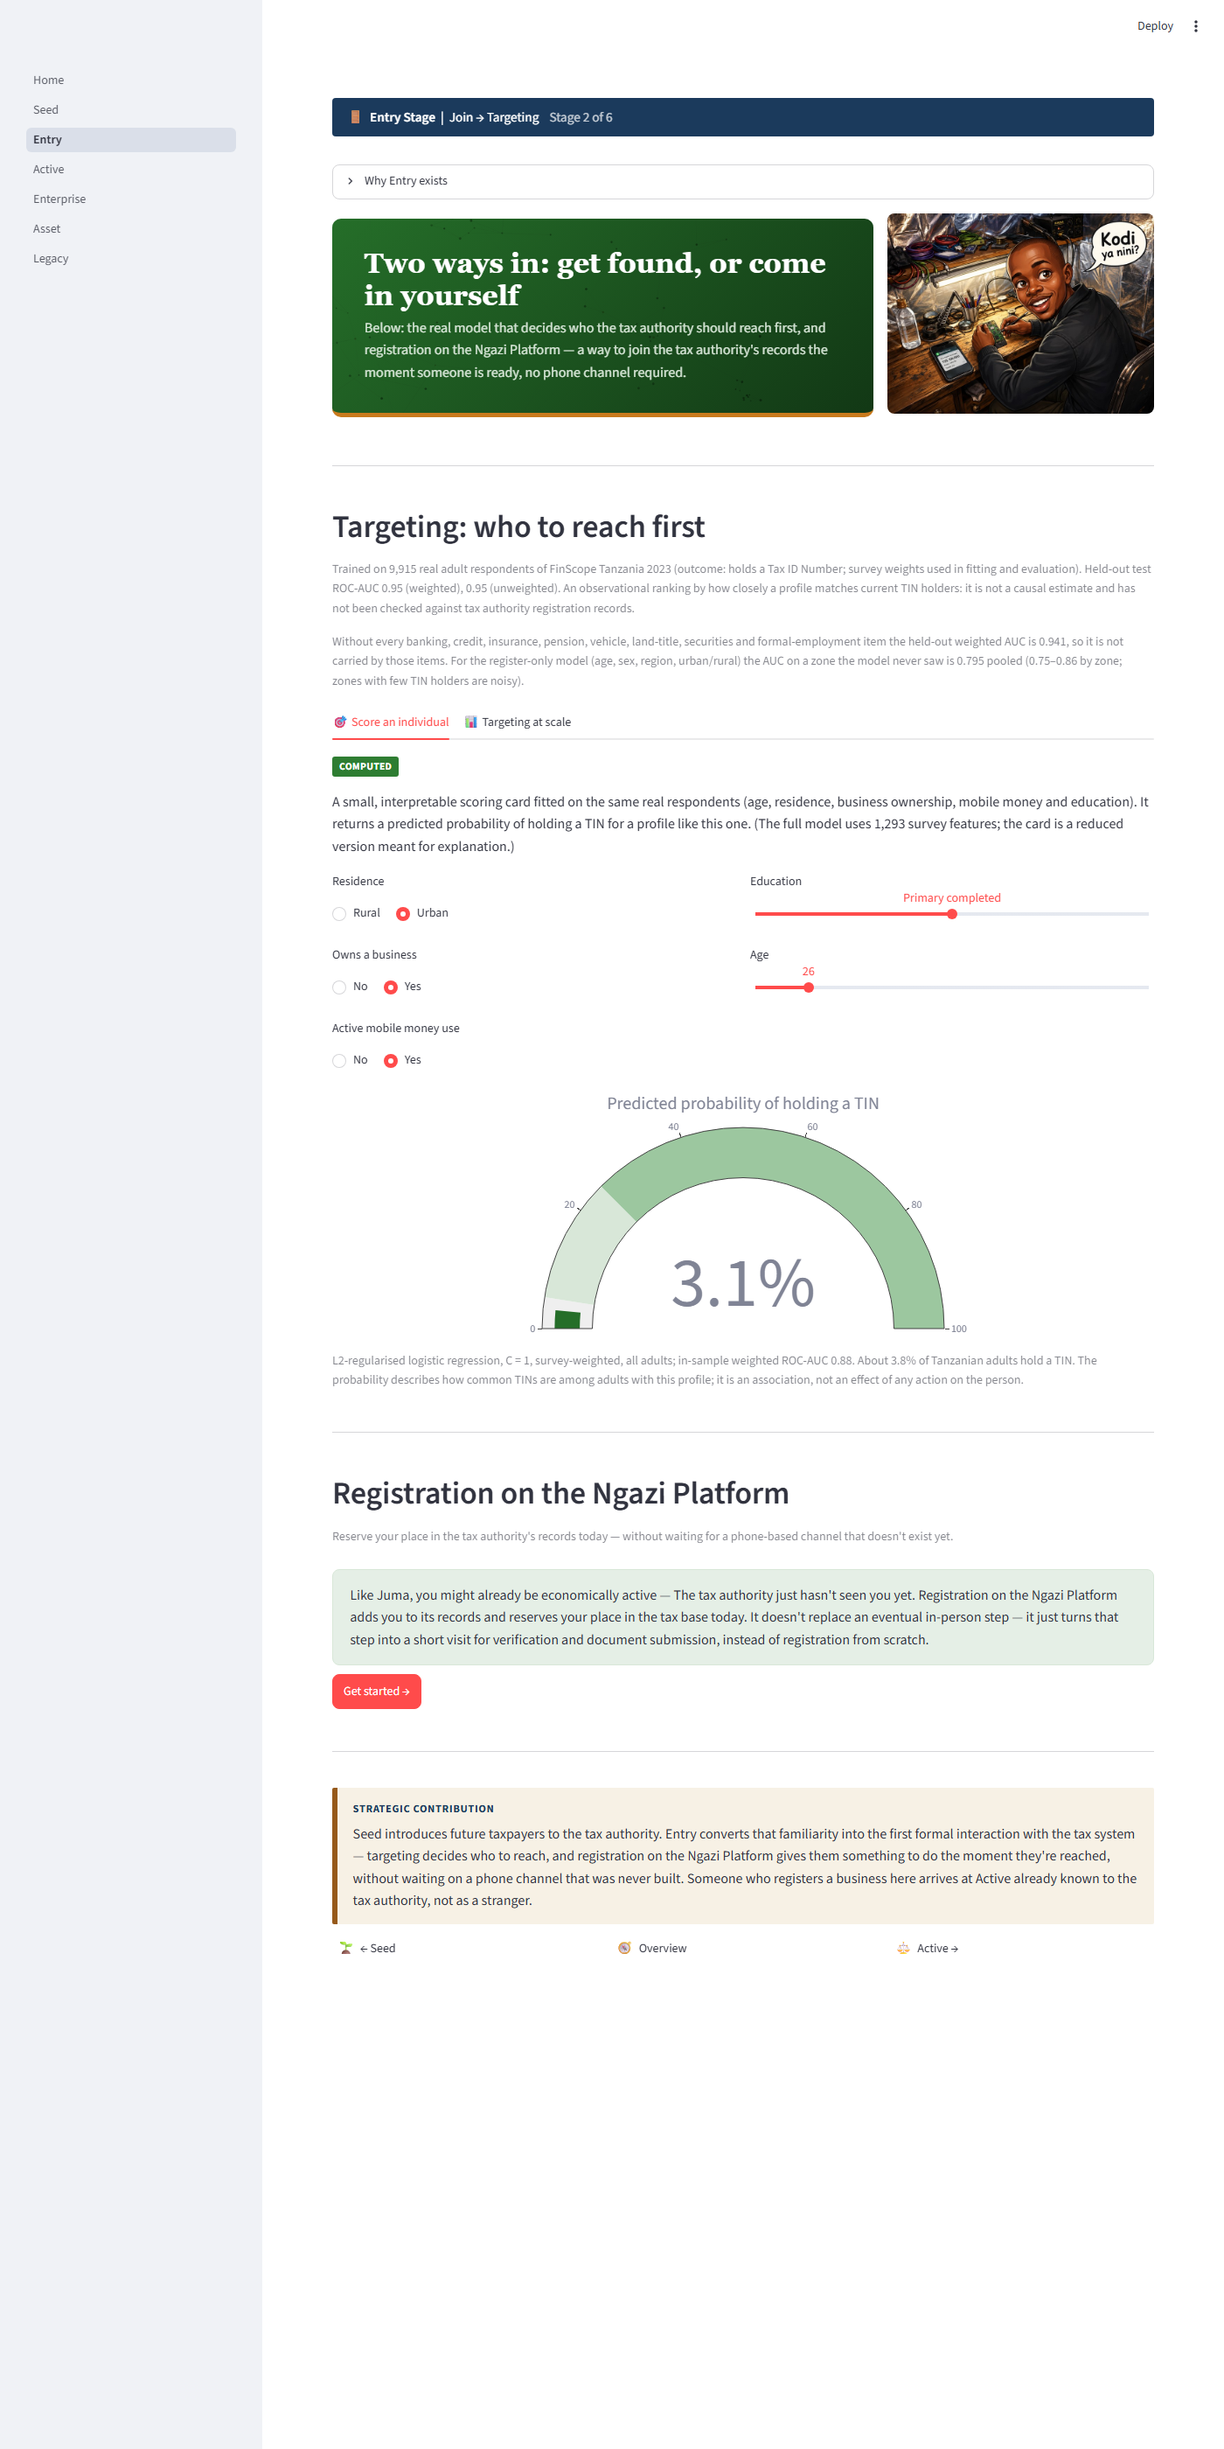
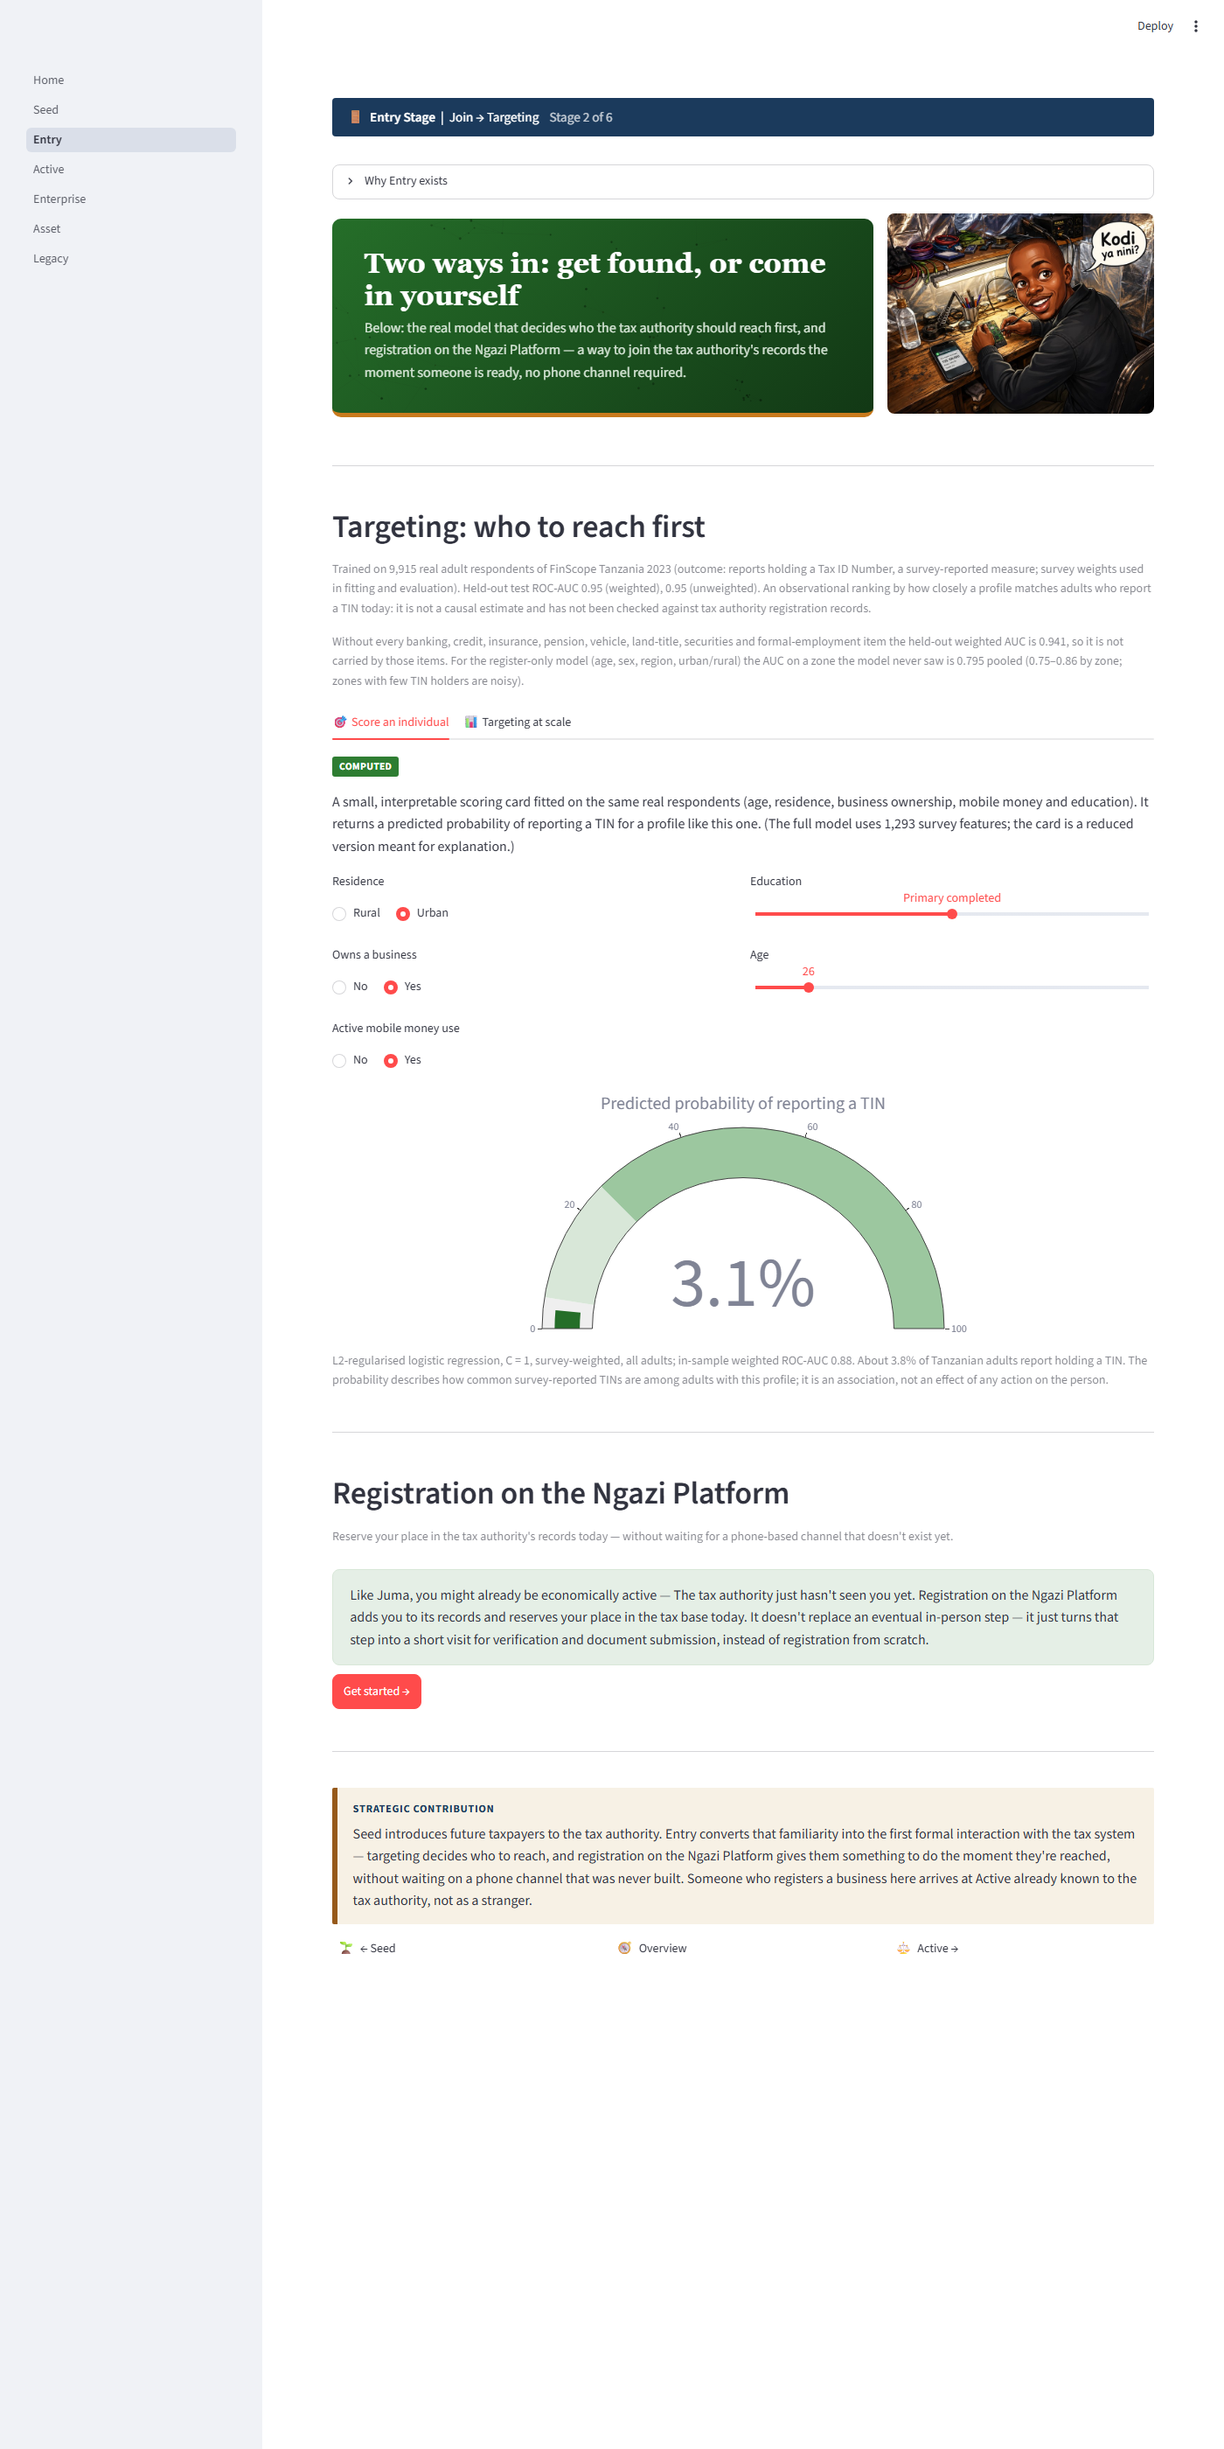
Pass 6B-2 phase 3: dashboard wording, screenshots, poster screenshot
Survey-reported TIN terminology throughout the Home and Entry pages; the stage definitions of drafts 4-0a (Active = business owners 25-64 whose business is not registered,
Enterprise = registered, Asset = non-business owners 45-64, non-business owners 25-44 without a stage) on Home; Figure 5.1's 12.0% explained like for like (baseline plus the six separate
gains) and "if every adult were reached"; Mzani wa Kodi labelled "a reference for assessment and review, shown in shadow mode for officers; not a determination of liability";
no digital twin anywhere. docs/pending_dashboard_text.csv carries a status for each row. Dashboard launched locally: all seven pages load without a Streamlit exception;
screenshots and the poster's dashboard picture regenerated; the poster's QR code decodes to https://taxpayer-development-journey.streamlit.app.

Changed region(s): [[0.5836, 0.2175, 0.86, 0.2486], [0.8907, 0.2175, 0.9214, 0.2486], [0.5836, 0.435, 0.6143, 0.4661]]

diff --git a/dashboard/Home.py b/dashboard/Home.py
@@ -47,6 +47,11 @@ for col, stage in zip(cols, STAGES):
         st.page_link(stage["page"], label=f"{stage['icon']}  {stage['label']}", icon=None)
         st.caption(f"*{stage['verb']} → {stage['mechanism']}*")
         st.caption(stage["tool"])
+st.caption(
+    "Who each stage serves (FinScope Tanzania 2023, adults): Entry, ages 16–24; Active, business owners aged 25–64 whose business is not registered with any authority; "
+    "Enterprise, business owners aged 25–64 whose business is registered; Asset, non-business owners aged 45–64; Legacy, aged 65 and over. Non-business owners aged 25–44 "
+    "(wage earners, casual workers, farmers and dependants) have no stage of their own. \"Business owner\" follows FinScope's definition: main income from trading or providing a service."
+)
 
 st.divider()
 
@@ -71,7 +76,7 @@ fig = go.Figure(
                  text=[f"{v}%" for v in values], textposition="outside")]
 )
 fig.update_layout(
-    yaxis_title="Modelled probability that an adult holds a TIN (%)",
+    yaxis_title="Modelled probability that an adult reports a TIN (%), if every adult were reached",
     yaxis_range=[0, max(values) * 1.3 + 1],
     height=380,
     margin=dict(t=20, b=20),
@@ -82,10 +87,11 @@ evidence_tag("modelled")
 if _morale.available:
     _m = _morale.value
     st.caption(
-        "Modelled probability that an adult holds a TIN under the project's tax morale model, recalibrated so that today's value equals the observed adult TIN rate "
+        "Modelled probability that an adult reports a TIN under the project's tax morale model if every adult were reached, recalibrated so that today's value equals the observed (survey-reported) adult TIN rate "
         f"({_m['baseline_compliance_probability'] * 100:.2f}%, FinScope 2023). The intervention effects are assumed uplifts expressed as odds ratios (not measured). "
-        f"The combined effect ({_m['combined_intervention_probability'] * 100:.1f}%) sits below the naive sum of the solo effects ({_m['naive_sum_of_solo_effects_pct']:.1f}%), "
-        "which is not a meaningful probability at a low baseline."
+        f"The combined effect ({_m['combined_intervention_probability'] * 100:.2f}%) sits below what adding the six separate gains to today's rate would give "
+        f"({_m['baseline_compliance_probability'] * 100:.2f}% + {_m['naive_sum_of_solo_effects_pct'] - _m['baseline_compliance_probability'] * 100:.2f} percentage points = {_m['naive_sum_of_solo_effects_pct']:.2f}%): "
+        "the model assumes diminishing returns, so the gain comes from coverage, not from synergy."
     )
 else:
     st.caption("The tax morale model is not connected right now.")
@@ -93,7 +99,7 @@ else:
 st.divider()
 
 # ---- Mobile money and TIN holding (observational, real respondents) ----------
-st.markdown("### Mobile Money and TIN Holding in Tanzania's Own Data")
+st.markdown("### Mobile Money and Survey-Reported TIN Holding in Tanzania's Own Data")
 if _mm.available:
     _v = _mm.value
     _rates = {r["group"]: r for r in _v["descriptives"]["tin_rate_by_group"]}
@@ -103,22 +109,22 @@ if _mm.available:
     with c1:
         evidence_tag("computed")
         _u, _n = _rates["Mobile-money users"], _rates["Non-users of mobile money"]
-        st.metric("TIN holding: users vs non-users",
+        st.metric("Survey-reported TIN holding: users vs non-users",
                   f"{_u['tin_rate_pct']:.1f}% vs {_n['tin_rate_pct']:.2f}%",
-                  help="Share of adults holding a TIN among mobile-money users and non-users (survey-weighted). "
-                       "The non-user figure rests on fewer than 10 respondents holding a TIN: low precision.")
+                  help="Share of adults reporting a TIN among mobile-money users and non-users (survey-weighted). "
+                       "The non-user figure rests on fewer than 10 respondents reporting a TIN: low precision.")
     with c2:
         evidence_tag("computed")
         _lo, _hi = _ame["ci95_percentage_points"]
         st.metric("Association, adjusted (average marginal effect)", f"+{_ame['percentage_points']:.1f} pp",
                   delta=f"95% CI {_lo:.1f} to {_hi:.1f}", delta_color="off",
-                  help="Difference in the predicted probability of holding a TIN between mobile-money use and non-use, averaged "
+                  help="Difference in the predicted probability of reporting a TIN between mobile-money use and non-use, averaged "
                        "over respondents, from a survey-weighted Firth-penalised logistic regression (age, sex, residence, "
                        "education, income source, region). Observational, cross-sectional; not a causal estimate.")
     with c3:
         evidence_tag("computed")
-        st.metric("TIN holders who use mobile money", f"{_share['share_of_tin_holders_using_mm_pct']:.1f}%",
-                  help="Weighted share of adult TIN holders who use mobile money.")
+        st.metric("Adults reporting a TIN who use mobile money", f"{_share['share_of_tin_holders_using_mm_pct']:.1f}%",
+                  help="Weighted share of adults reporting a TIN who use mobile money.")
     st.caption(
         f"Observational, cross-sectional association from FinScope Tanzania 2023{_n_finscope}; not a causal "
         "estimate. Mobile-money users differ from non-users in ways the survey does not fully measure."
@@ -140,7 +146,7 @@ if _tb.available:
         evidence_tag("computed")
         k1.metric("Register data alone (age, sex, region, urban/rural)", f"{_reg['multiplier']['median']:.1f}×",
                   delta=f"95% interval {_reg['multiplier']['ci95'][0]:.1f}–{_reg['multiplier']['ci95'][1]:.1f}", delta_color="off",
-                  help="Top-decile Entry-age adults versus the Entry average, modelled TIN holding, respondent bootstrap refitting the model in every replicate. A ratio of model predictions, not a causal effect.")
+                  help="Top-decile Entry-age adults versus the Entry average, modelled survey-reported TIN holding, respondent bootstrap refitting the model in every replicate. A ratio of model predictions, not a causal effect.")
     with k2:
         evidence_tag("computed")
         k2.metric("Survey model (all questionnaire items)", f"{_sur['multiplier']['median']:.1f}×",
@@ -154,11 +160,11 @@ if _tb.available:
         evidence_tag("computed")
         k4.metric("Register-only AUC on a zone it never saw", f"{_lozo['pooled_loZo_auc_weighted']:.3f}",
                   delta=f"by zone {_lozo['range_by_zone'][0]:.2f}–{_lozo['range_by_zone'][1]:.2f}", delta_color="off",
-                  help="Leave-one-zone-out, nine zones; the held-out zone gets no region effect. Zones with few TIN holders are noisy.")
+                  help="Leave-one-zone-out, nine zones; the held-out zone gets no region effect. Zones with few respondents reporting a TIN are noisy.")
     _pair = _b["dashboard_pair_per_10000_reached"]["register_only"]
     st.caption(
-        f"Per 10,000 Entry-age adults reached, register data alone would find about {_pair['targeted']['median']:.0f} TIN holders (interval {_pair['targeted']['ci95'][0]:.0f}–{_pair['targeted']['ci95'][1]:.0f}) "
-        f"against about {_pair['random']:.0f} by random selection. The observed top-decile ratio is not shown: too few Entry-age TIN holders for it to be published as a number. "
+        f"Per 10,000 Entry-age adults reached, register data alone would find about {_pair['targeted']['median']:.0f} adults reporting a TIN (interval {_pair['targeted']['ci95'][0]:.0f}–{_pair['targeted']['ci95'][1]:.0f}) "
+        f"against about {_pair['random']:.0f} by random selection. The observed top-decile ratio is not shown: too few Entry-age respondents report a TIN for it to be published as a number. "
         "Modelled from FinScope Tanzania 2023; not a measured campaign result."
     )
 else:

diff --git a/dashboard/pages/2_Entry.py b/dashboard/pages/2_Entry.py
@@ -113,9 +113,9 @@ if targeting.available:
     _t = _tm["held_out_test"]["logistic_regression"]
     st.caption(
         f"Trained on {_tm['split']['train'] + _tm['split']['test']:,} real adult respondents of FinScope Tanzania 2023 "
-        f"(outcome: holds a Tax ID Number; survey weights used in fitting and evaluation). Held-out test ROC-AUC "
+        f"(outcome: reports holding a Tax ID Number, a survey-reported measure; survey weights used in fitting and evaluation). Held-out test ROC-AUC "
         f"{_t['roc_auc_weighted']:.2f} (weighted), {_t['roc_auc_unweighted']:.2f} (unweighted). "
-        "An observational ranking by how closely a profile matches current TIN holders: it is not a causal "
+        "An observational ranking by how closely a profile matches adults who report a TIN today: it is not a causal "
         "estimate and has not been checked against tax authority registration records."
     )
     _tbf = pipeline.targeting_bootstrap()
@@ -141,7 +141,7 @@ with tab_individual:
         evidence_tag("computed")
         st.write(
             "A small, interpretable scoring card fitted on the same real respondents (age, residence, business ownership, "
-            "mobile money and education). It returns a predicted probability of holding a TIN for a profile like this one. "
+            "mobile money and education). It returns a predicted probability of reporting a TIN for a profile like this one. "
             f"(The full model uses {_tm['features']['n_encoded_features']:,} survey features; the card is a reduced version "
             "meant for explanation.)"
         )
@@ -173,14 +173,14 @@ with tab_individual:
                     {"range": [25, 100], "color": "#9CC79F"},
                 ],
             },
-            title={"text": "Predicted probability of holding a TIN"},
+            title={"text": "Predicted probability of reporting a TIN"},
         ))
         gauge.update_layout(height=280, margin=dict(t=40, b=10))
         st.plotly_chart(gauge, width="stretch")
         st.caption(
             f"{card['fit']}; in-sample weighted ROC-AUC {card['in_sample_weighted_roc_auc']:.2f}. About "
-            f"{_tm['out_of_fold_all_adults']['base_rate_weighted'] * 100:.1f}% of Tanzanian adults hold a TIN. "
-            "The probability describes how common TINs are among adults with this profile; it is an association, not an "
+            f"{_tm['out_of_fold_all_adults']['base_rate_weighted'] * 100:.1f}% of Tanzanian adults report holding a TIN. "
+            "The probability describes how common survey-reported TINs are among adults with this profile; it is an association, not an "
             "effect of any action on the person."
         )
     else:
@@ -215,8 +215,8 @@ with tab_scale:
         multiple = (mean_top / mean_all) if mean_all else 0.0
 
         m1, m2, m3 = st.columns(3)
-        m1.metric(f"Targeted (per {reach:,} people reached)", f"~{expected_targeted:,.0f} TIN holders")
-        m2.metric(f"Random selection (per {reach:,} people)", f"~{expected_random:,.0f} TIN holders")
+        m1.metric(f"Targeted (per {reach:,} people reached)", f"~{expected_targeted:,.0f} adults reporting a TIN")
+        m2.metric(f"Random selection (per {reach:,} people)", f"~{expected_random:,.0f} adults reporting a TIN")
         m3.metric("Targeting multiplier", f"{multiple:.1f}×",
                   help="Mean predicted propensity of the reached share divided by the mean for the whole Entry segment")
 
@@ -229,7 +229,7 @@ with tab_scale:
         ))
         cmp_fig.update_layout(
             height=280, margin=dict(t=20, b=10),
-            yaxis_title="Modelled TIN holders per 10,000 reached", plot_bgcolor="white",
+            yaxis_title="Modelled adults reporting a TIN per 10,000 reached", plot_bgcolor="white",
         )
         st.plotly_chart(cmp_fig, width="stretch")
 
@@ -251,7 +251,7 @@ with tab_scale:
                 + (f" (raw mean prediction {_raw:.1f}%)" if _raw is not None else "")
                 + f". Predicted levels are recalibrated within the age band so that the mean predicted TIN rate ({_cal['mean_predicted_tin_rate_pct']:.2f}%) "
                 f"equals the rate observed in the survey ({_cal['observed_tin_rate_pct']:.2f}%, a low-precision figure resting on very few "
-                "TIN holders); the ranking is unchanged, so the multiplier is almost unaffected. The counts above are modelled, not observed."
+                "respondents reporting a TIN); the ranking is unchanged, so the multiplier is almost unaffected. The counts above are modelled, not observed."
             )
 
         with st.expander("Decile table (aggregates)"):
@@ -269,16 +269,16 @@ with tab_scale:
             if _tbs.available:
                 _sv, _rg = _tbs.value["models"]["survey"], _tbs.value["models"]["register"]
                 _pr = _tbs.value["dashboard_pair_per_10000_reached"]["register_only"]
-                st.caption("† low precision: fewer than 10 TIN holders among the unweighted respondents of that decile. "
+                st.caption("† low precision: fewer than 10 respondents reporting a TIN among the unweighted respondents of that decile. "
                            f"Multiplier at the top 10%, refit in every bootstrap replicate: survey model {_sv['multiplier']['median']:.1f}× "
                            f"(95% interval {_sv['multiplier']['ci95'][0]:.1f}–{_sv['multiplier']['ci95'][1]:.1f}); register data alone (what a tax authority holds) {_rg['multiplier']['median']:.1f}× "
                            f"(95% interval {_rg['multiplier']['ci95'][0]:.1f}–{_rg['multiplier']['ci95'][1]:.1f}), about {_pr['targeted']['median']:.0f} against {_pr['random']:.0f} TIN holders per 10,000 reached. "
-                           "The observed top-decile ratio is not shown: too few Entry-age TIN holders for it to be published as a number.")
+                           "The observed top-decile ratio is not shown: too few Entry-age respondents report a TIN for it to be published as a number.")
             else:
-                st.caption("† low precision: fewer than 10 TIN holders among the unweighted respondents of that decile. The bootstrap intervals are not connected (run `python run_all.py --full-bootstrap`).")
+                st.caption("† low precision: fewer than 10 respondents reporting a TIN among the unweighted respondents of that decile. The bootstrap intervals are not connected (run `python run_all.py --full-bootstrap`).")
 
         st.caption(
-            "\"TIN likelihood\" here means how closely someone's profile matches people who already hold a TIN in the "
+            "\"TIN likelihood\" here means how closely someone's profile matches people who already report a TIN in the "
             "survey, used as a targeting signal — not a causal claim that contacting a given person will cause them to register."
         )
 

diff --git a/dashboard/pages/3_Active.py b/dashboard/pages/3_Active.py
@@ -102,6 +102,7 @@ with hc2:
 
 st.markdown(
     '<span class="tdj-demo-note">This tool does not estimate any one business\'s turnover or tax. '
+    "Mzani wa Kodi is a reference for assessment and review, shown in shadow mode for officers; it is not a determination of liability. "
     "The bands below are survey figures for businesses like it: Household Budget Survey 2017/18, "
     "CPI-uprated to 2024, last-month receipts annualised by months operated, owners with receipts. "
     "Farmers and fishers are not covered, and Zanzibar is not covered.</span>",
